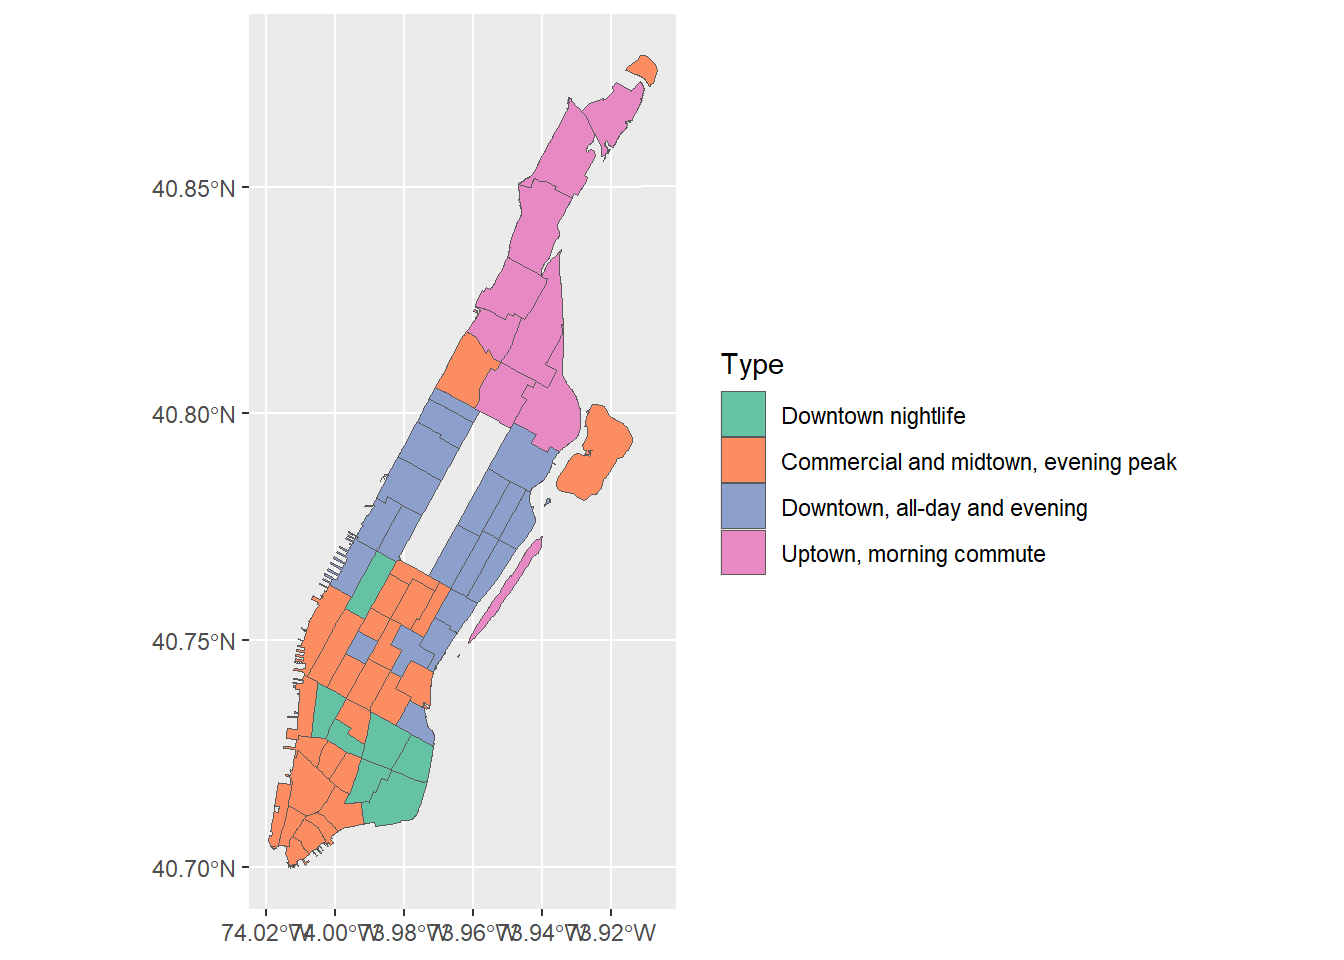
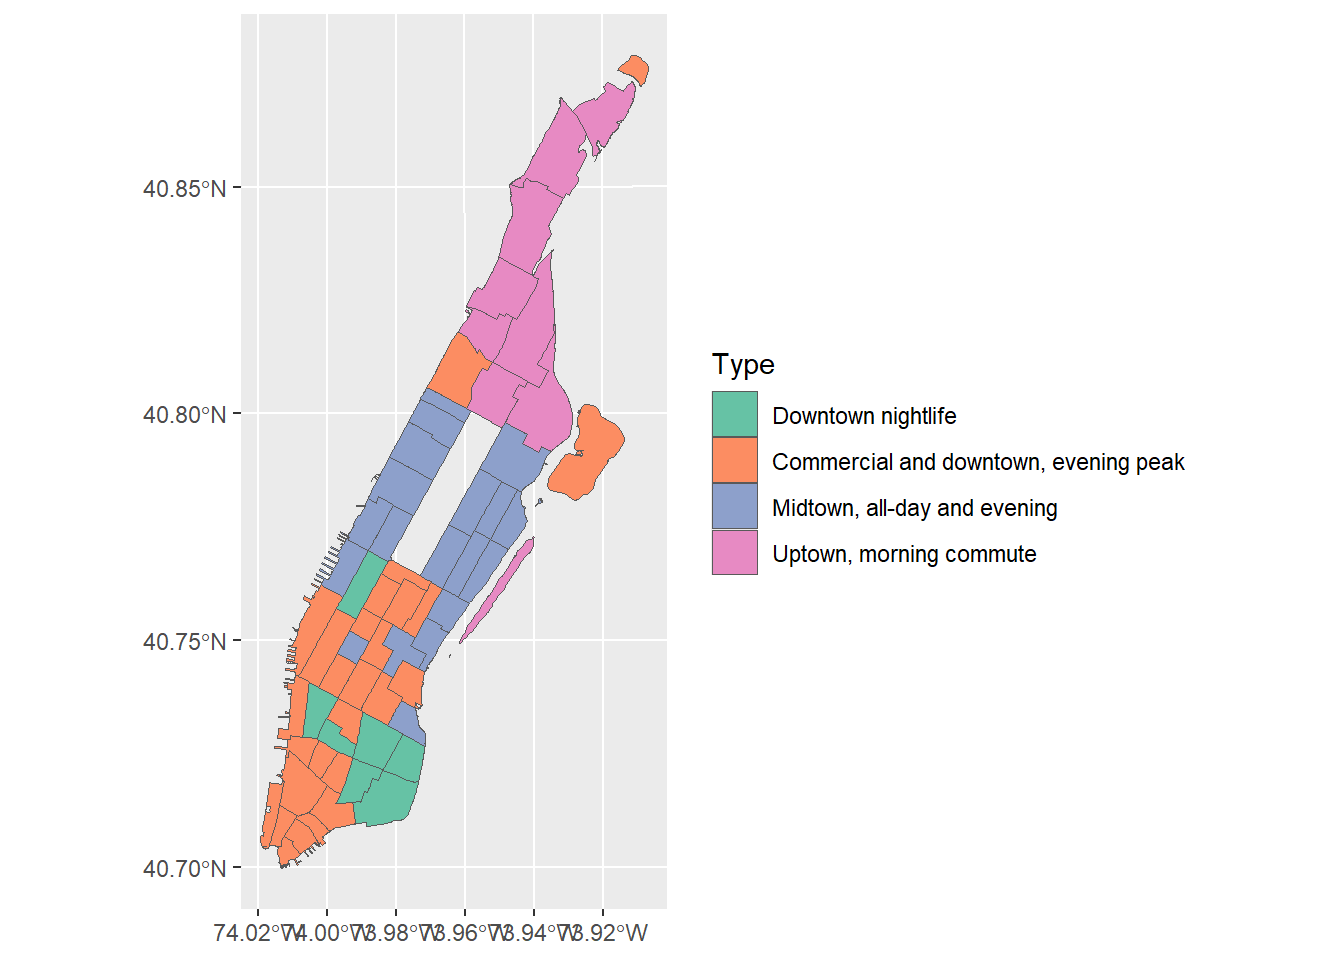
town

diff --git a/docs/labs/lab9.html b/docs/labs/lab9.html
@@ -6,7 +6,7 @@
 
 <meta name="viewport" content="width=device-width, initial-scale=1.0, user-scalable=yes">
 
-<meta name="dcterms.date" content="2026-11-22">
+<meta name="dcterms.date" content="2026-11-23">
 
 <title>Cluster Places by Characteristics and Use in  – Applied Data Science for Cities</title>
 <style>
@@ -192,7 +192,7 @@ pre > code.sourceCode > span > a:first-child::before { text-decoration: underlin
     <div>
     <div class="quarto-title-meta-heading">Published</div>
     <div class="quarto-title-meta-contents">
-      <p class="date">November 22, 2026</p>
+      <p class="date">November 23, 2026</p>
     </div>
   </div>
   
@@ -427,7 +427,7 @@ pre > code.sourceCode > span > a:first-child::before { text-decoration: underlin
 </tr>
 <tr class="odd">
 <td>3</td>
-<td>Low income, far from Times Square, relatively high share of health jobs</td>
+<td>Low income, far from city center, relatively high share of health jobs</td>
 <td>Uptown / lower-income residential</td>
 </tr>
 <tr class="even">
@@ -611,12 +611,12 @@ pre > code.sourceCode > span > a:first-child::before { text-decoration: underlin
 <tr class="even">
 <td>2</td>
 <td>Weekday and weekend peak around 6 to 8pm</td>
-<td>Commercial and midtown, evening peak</td>
+<td>Commercial and downtown, evening peak</td>
 </tr>
 <tr class="odd">
 <td>3</td>
 <td>Activity stays high through day on both weekdays and weekends</td>
-<td>Downtown, all-day and evening</td>
+<td>Midtown, all-day and evening</td>
 </tr>
 <tr class="even">
 <td>4</td>
@@ -628,8 +628,8 @@ pre > code.sourceCode > span > a:first-child::before { text-decoration: underlin
 <p>Like before, we attach the names to the cluster numbers, and then get the zone IDs back from <code>zones</code> so that we can join to the map.</p>
 <div class="cell">
 <div class="sourceCode cell-code" id="cb26"><pre class="sourceCode r code-with-copy"><code class="sourceCode r"><span id="cb26-1"><a href="#cb26-1" aria-hidden="true" tabindex="-1"></a>hc_names <span class="ot">&lt;-</span> <span class="fu">c</span>(<span class="st">"Downtown nightlife"</span>,</span>
-<span id="cb26-2"><a href="#cb26-2" aria-hidden="true" tabindex="-1"></a>              <span class="st">"Commercial and midtown, evening peak"</span>,</span>
-<span id="cb26-3"><a href="#cb26-3" aria-hidden="true" tabindex="-1"></a>              <span class="st">"Downtown, all-day and evening"</span>,</span>
+<span id="cb26-2"><a href="#cb26-2" aria-hidden="true" tabindex="-1"></a>              <span class="st">"Commercial and downtown, evening peak"</span>,</span>
+<span id="cb26-3"><a href="#cb26-3" aria-hidden="true" tabindex="-1"></a>              <span class="st">"Midtown, all-day and evening"</span>,</span>
 <span id="cb26-4"><a href="#cb26-4" aria-hidden="true" tabindex="-1"></a>              <span class="st">"Uptown, morning commute"</span>)</span>
 <span id="cb26-5"><a href="#cb26-5" aria-hidden="true" tabindex="-1"></a></span>
 <span id="cb26-6"><a href="#cb26-6" aria-hidden="true" tabindex="-1"></a>hc_table <span class="ot">&lt;-</span> <span class="fu">tibble</span>(<span class="at">zone =</span> <span class="fu">names</span>(hc_cluster),</span>
@@ -662,13 +662,13 @@ pre > code.sourceCode > span > a:first-child::before { text-decoration: underlin
 </section>
 <section id="final-notes" class="level1">
 <h1>Final Notes</h1>
-<p>We clustered the same zones twice with two different lenses. The first tells us what kind of place a zone is, and the second tells us how taxi pickups happen there. By looking at both, we can get a better idea of what’s going on in each zone. The groups don’t have to match, but where they agree, the kind of place helps explain the rhythm of pickups. Where they disagree, something else is at play, which could be something worth digging into.</p>
+<p>We clustered the same zones twice with two different lenses. The first tells us what kind of place a zone is, and the second tells us how taxi pickups happen there. By looking at both, we can get a better idea of what’s going on in each zone. The groups don’t have to match, but together they can help explain the rhythm of pickups.</p>
 <p>K-means and hierarchical clustering are two ways to run the same workflow, and they have different strengths:</p>
 <ul>
 <li><strong>K-means</strong> assigns each point to its nearest center. It is simple and fast, and it works with thousands of rows. It assumes roughly round clusters in the data space.</li>
 <li><strong>Hierarchical clustering</strong> gives you a whole tree, so you can see which zones are most alike and decide later where to cut. But it gets slow and memory-heavy past a few hundred rows, because it needs all pairwise distances.</li>
 </ul>
-<p>There is also no strict criterion that says one clustering is “right”. Clustering is exploratory: the results are a tool to help you describe places. What matters is that you can say what each group means, and that the meaning makes sense when you look back at the map.</p>
+<p>There is also no strict criterion that says one clustering is “right”. Clustering is exploratory: the results are a tool to help you describe places. What matters is that you can say what each group means, and that the meaning makes sense for your downstream decisions.</p>
 </section>
 <section id="exercise" class="level1">
 <h1>Exercise</h1>
